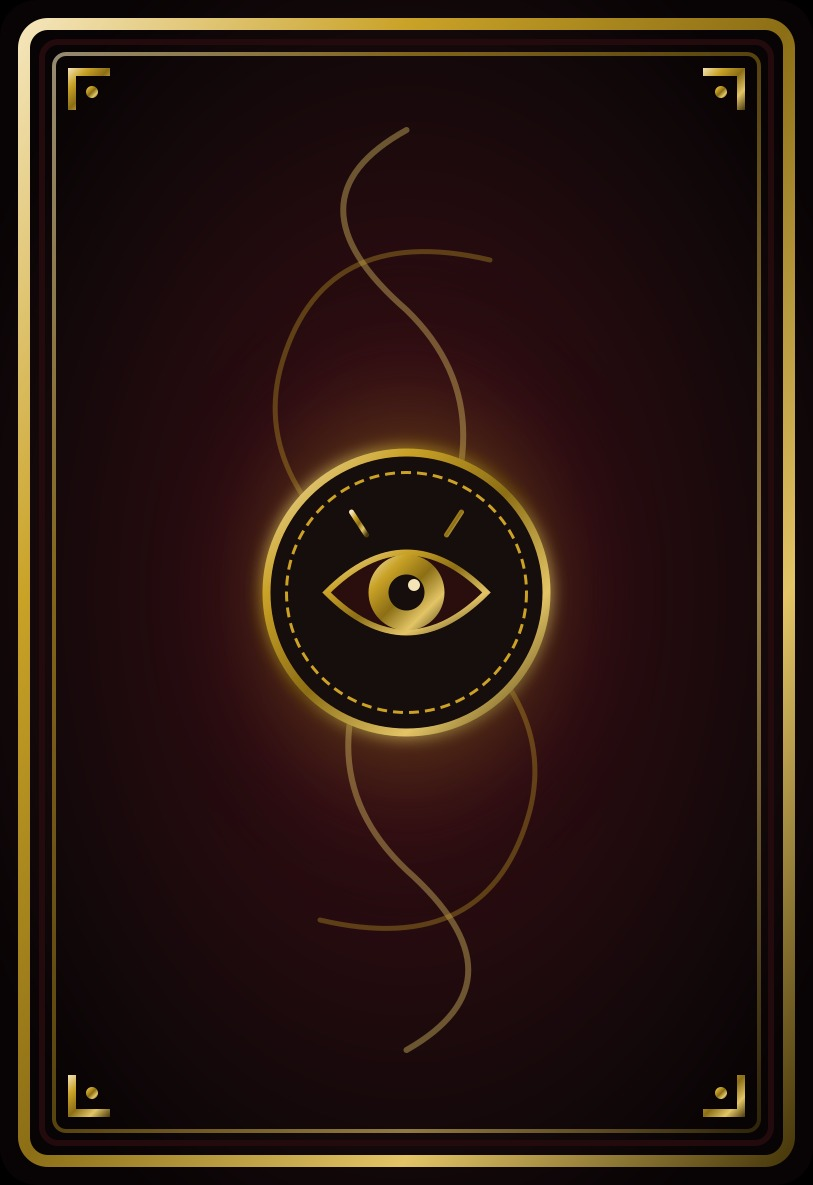
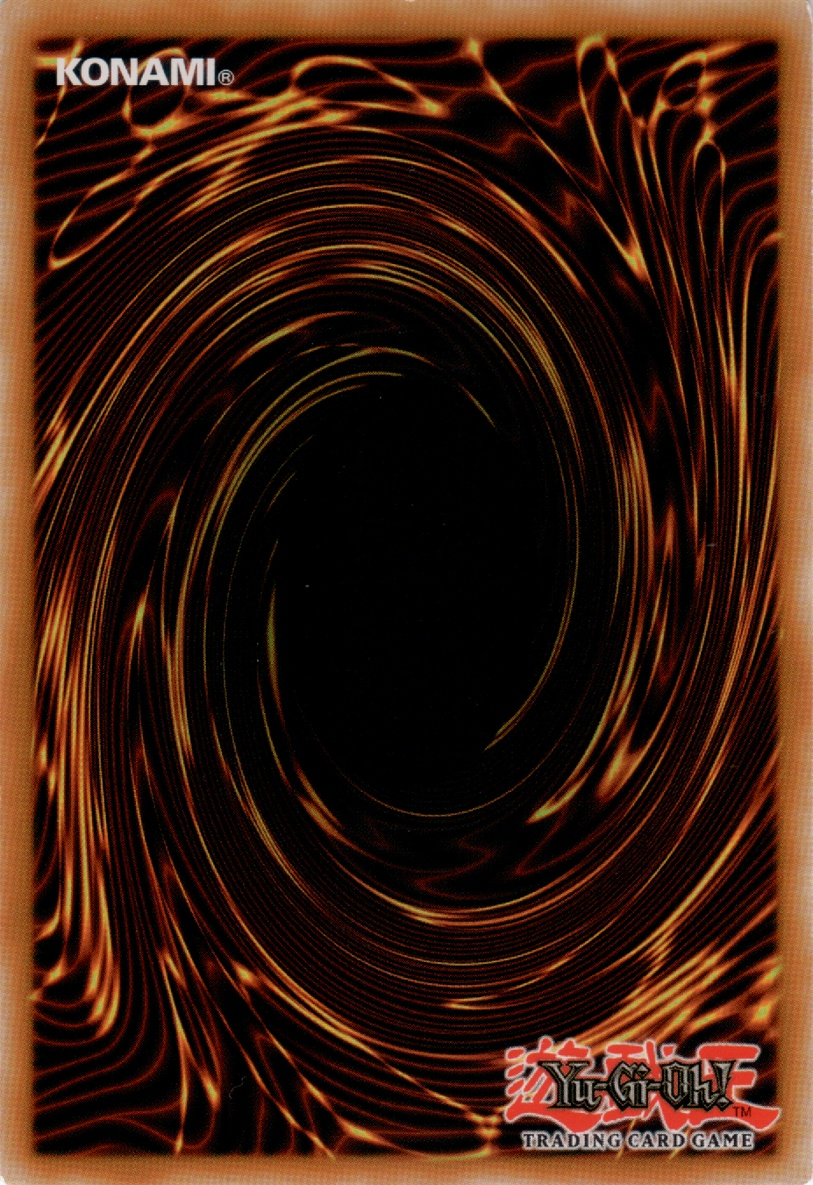
feat(assets): replace card-back with official high-res asset and wire into downloader

diff --git a/scripts/download-card-images.ts b/scripts/download-card-images.ts
@@ -262,6 +262,49 @@ async function processCard(
 }
 
 /**
+ * Download official card-back image from official server/CDN.
+ */
+async function downloadCardBack(rateLimiter: RateLimiter): Promise<void> {
+  const cardBackPath = path.resolve(process.cwd(), 'resources/cards/card-back.jpg');
+  const uiCardBackPath = path.resolve(process.cwd(), 'resources/ui/card-back.png');
+  const miniCardBackPath = path.resolve(process.cwd(), 'resources/cards/mini/card-back.jpg');
+
+  if (fileIsValid(cardBackPath) && fileIsValid(uiCardBackPath) && fileIsValid(miniCardBackPath)) {
+    return;
+  }
+
+  console.log('[INFO] Downloading official card back image from server...');
+  // Attempt high-res official Yugipedia asset first, fallback to YGOPRODeck back.jpg
+  let buf: Buffer | null = await fetchWithRetry(
+    'https://ms.yugipedia.com/e/e5/Back-EN.png',
+    rateLimiter,
+  );
+  if (!buf) {
+    buf = await fetchWithRetry('https://images.ygoprodeck.com/images/cards/back.jpg', rateLimiter);
+  }
+
+  if (buf) {
+    try {
+      await sharp(buf)
+        .resize(813, 1185, { fit: 'cover' })
+        .jpeg({ quality: 95, progressive: true })
+        .toFile(cardBackPath);
+
+      await sharp(buf).resize(813, 1185, { fit: 'cover' }).png().toFile(uiCardBackPath);
+
+      await sharp(buf)
+        .resize(MINI_TARGET_WIDTH, MINI_TARGET_HEIGHT, { fit: 'cover', kernel: 'lanczos3' })
+        .jpeg({ quality: 90 })
+        .toFile(miniCardBackPath);
+
+      console.log('[INFO] Successfully downloaded and optimized official card back assets.');
+    } catch (err) {
+      console.warn('[WARN] Failed to process official card back image:', err);
+    }
+  }
+}
+
+/**
  * Main downloader routine.
  */
 async function main() {
@@ -319,6 +362,8 @@ async function main() {
   console.log('---------------------------------------------------------------');
 
   const rateLimiter = new RateLimiter(options.rateLimitPerSec || DEFAULT_RATE_LIMIT);
+  await downloadCardBack(rateLimiter);
+
   let completed = 0;
   let skippedCount = 0;
   let downloadedCount = 0;
